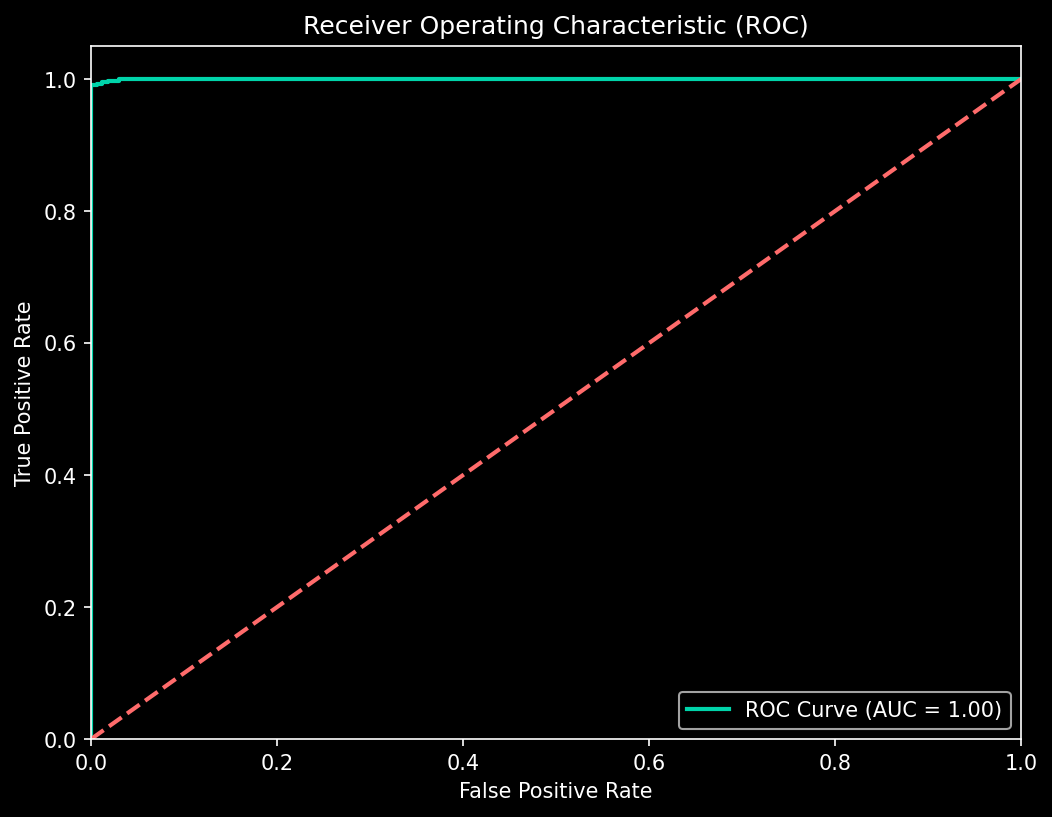
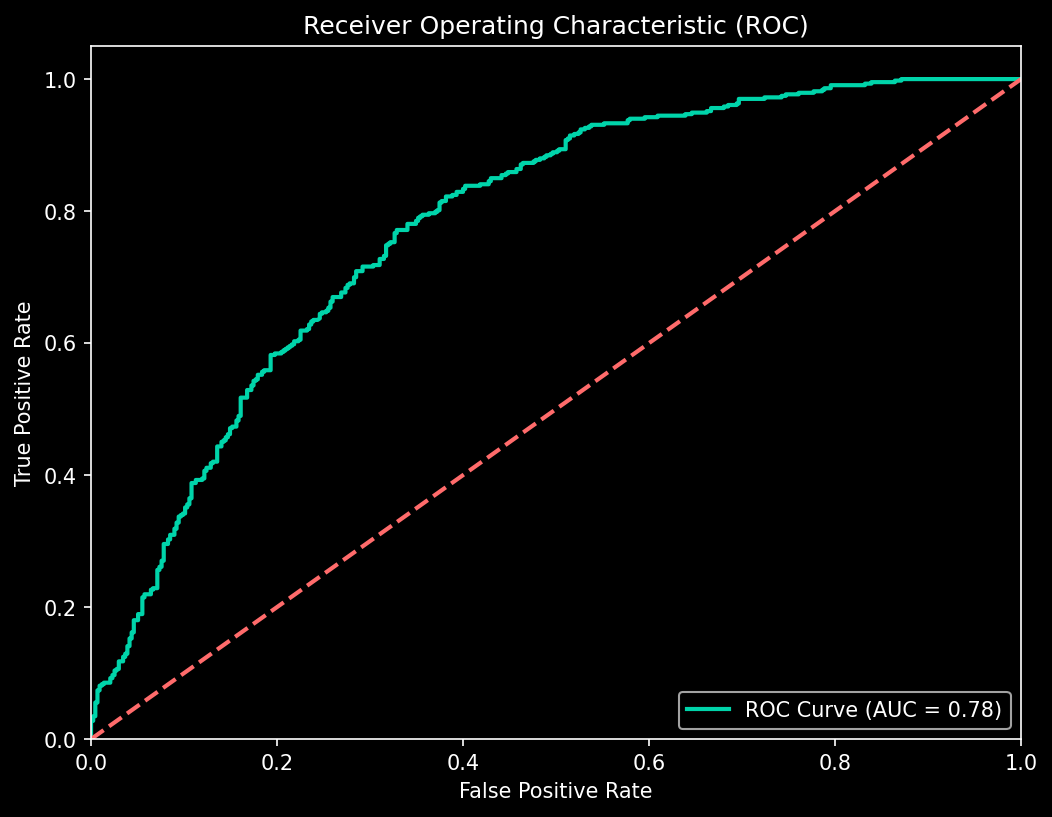
Fix Target Leakage in Churn Prediction Model

diff --git a/scripts/07_churn_prediction.py b/scripts/07_churn_prediction.py
@@ -49,7 +49,8 @@ def main():
         print(f"Churn Split: \n{churn_counts}")
         
         # 2. Define X (features) and y (target)
-        features = ['R_Score', 'F_Score', 'M_Score', 'Recency', 'Frequency', 'Monetary', 'RFM_Total']
+        # Removed 'Recency', 'R_Score', and 'RFM_Total' to prevent Target Leakage
+        features = ['F_Score', 'M_Score', 'Frequency', 'Monetary']
         X = df[features]
         y = df['Churned']
         
